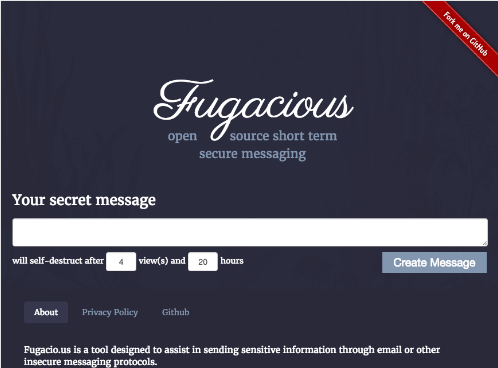
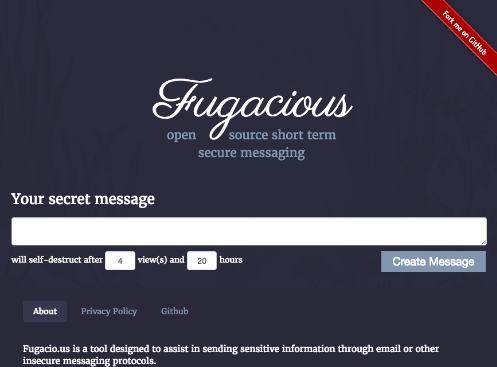
Fixes button scroll and backgrounds

diff --git a/index.html b/index.html
@@ -17,7 +17,6 @@
 		<!--[if lte IE 9]><link rel="stylesheet" href="assets/css/ie9.css" /><![endif]-->
 	</head>
 	<body>
-
 		<!-- Nav -->
 			<nav id="nav">
 				<a href="#top" class="logo">Trevor Mast</a>
@@ -30,7 +29,7 @@
 			</nav>
 
 		<!-- Home -->
-			<div class="wrapper style1 first" id="hello">
+			<div class="wrapper style1 first">
 				<div class="overlay"></div>
 				<article class="container" id="top">
 					<div class="row">
@@ -56,12 +55,12 @@
 
 		<!-- Work -->
 			<div class="wrapper style2">
-				<article id="work">
+				<article>
 					<header>
 						<h2>I'm a Full-Stack Engineer.</h2>
 						<p>From user interfaces to database configuration, I do it all.</p>
 					</header>
-					<div class="container">
+					<div class="container" id="work">
 						<div class="row">
 							<div class="4u 12u(mobile)">
 								<section class="box style1">
@@ -95,36 +94,46 @@
 		<!-- Portfolio -->
 			<!-- image size: 866 x 640 -->
 			<div class="wrapper style3">
-				<article id="portfolio">
+				<article>
 					<header>
 						<h2>Here’s what I've been working on recently.</h2>
-						<p></p>
 					</header>
-					<div class="container">
-						<div class="row">
+					<div class="container" id="portfolio">
 						<!--JEKYLL.PIZZA-->
+						<div class="row" id="jekyllPizza">
 							<div class="4u 12u(mobile)">
 								<article class="box style2">
 									<a href="http://fresh.jekyll.pizza" class="image featured"><img src="images/jekyll_pizza.jpg" alt="" /></a>
-									<h3><a href="http://fresh.jekyll.pizza">Jekyll.Pizza</a></h3>
-									<p>A Sinatra app that lets you create and host Jekyll blogs on the fly.</p>
 								</article>
 							</div>
+							<div class="8u 12u(mobile) description-right">
+								<h3><a href="http://fresh.jekyll.pizza">Jekyll.Pizza</a></h3>
+									<p>A Sinatra app that lets you create and host Jekyll blogs on the fly.</p>
+							</div>
+						</div>
 							<!--FUGACIOUS-->
+						<div class="row" id="fugacious">
+							<div class="8u 12u(mobile) description-left">
+								<h3><a href="http://fugacio.us/">Fugacious</a></h3>
+									<p>A Rails app that lets you send sensitive information securely.</p>
+							</div>
 							<div class="4u 12u(mobile)">
 								<article class="box style2">
 									<a href="http://fugacio.us/" class="image featured"><img src="images/fugacious.png" alt="" /></a>
-									<h3><a href="http://fugacio.us/">Fugacious</a></h3>
-									<p>A Rails app that lets you send sensitive information securely.</p>
+
 								</article>
 							</div>
+						</div>
 							<!-- -->
+						<div class="row" id="other">
 							<div class="4u 12u(mobile)">
 								<article class="box style2">
 									<a href="#" class="image featured"><img src="images/pic03.jpg" alt="" /></a>
-									<h3><a href="#">Lorem ipsum</a></h3>
-									<p>Ornare nulla proin odio consequat.</p>
 								</article>
+							</div>
+							<div class="8u 12u(mobile) description-right">
+								<h3><a href="#">Lorem ipsum</a></h3>
+								<p>Ornare nulla proin odio consequat.</p>
 							</div>
 						</div>
 					</div>
@@ -169,6 +178,7 @@
 		<!-- Scripts -->
 			<script src="assets/js/jquery.min.js"></script>
 			<script src="assets/js/jquery.scrolly.min.js"></script>
+			<script src="assets/js/jquery.scrollex.min.js"></script>
 			<script src="assets/js/skel.min.js"></script>
 			<script src="assets/js/skel-viewport.min.js"></script>
 			<script src="assets/js/util.js"></script>
@@ -176,7 +186,8 @@
 			<script src="assets/js/main.js"></script>
 			<script src="assets/js/header.js"></script>
 			<script src="assets/js/nav.js"></script>
-			<script src="assets/js/lightsout.js"></script>
+			<script src="assets/js/portfolio_scroll.js"></script>
+			<!-- <script src="assets/js/lightsout.js"></script> -->
 
 	</body>
 </html>

diff --git a/assets/css/main.css b/assets/css/main.css
@@ -64,18 +64,13 @@
 		left: 0;
 		width: 100%;
 		height:100%;
-		background-color: black;
+		background: white;
 		opacity: 0;
 	}
 
 	.container {
 		margin-left: auto;
 		margin-right: auto;
-	}
-
-	#hello {
-		background-image: url("../../images/bg.jpg");
-		position: relative;
 	}
 
 	#intro {
@@ -202,6 +197,8 @@
 /* Grid */
 
 	.row {
+		position: relative;
+		width: 100%;
 		border-bottom: solid 1px transparent;
 		-moz-box-sizing: border-box;
 		-webkit-box-sizing: border-box;
@@ -1327,6 +1324,14 @@
 		margin-bottom: 0;
 	}
 
+	div .description-right {
+		text-align: left;
+	}
+
+	div .description-left {
+		text-align: right;
+	}
+
 /* Image */
 
 	.image {
@@ -1348,6 +1353,10 @@
 			display: block;
 			width: 100%;
 			margin: 0 0 2em 0;
+		}
+
+		.image.featured img {
+			border-radius: 15px;
 		}
 
 		.image.left {
@@ -1487,7 +1496,7 @@
 					transition: background-color .2s ease-in-out;
 					background-color: #444;
 					border-radius: 6px;
-					box-shadow: inset 0px 0px 0px 1px #282828, inset 0px 2px 1px 0px rgba(255, 255, 255, 0.1);
+					/*box-shadow: inset 0px 0px 0px 1px #282828, inset 0px 2px 1px 0px rgba(255, 255, 255, 0.1);*/
 					color: #2E2E2E !important;
 					display: block;
 					font-size: 26px;
@@ -1593,8 +1602,8 @@
 /* Box */
 
 	.box {
-		background: #fff;
-		box-shadow: inset 0px 0px 0px 1px rgba(0, 0, 0, 0.15), 0px 2px 3px 0px rgba(0, 0, 0, 0.1);
+		background: transparent;
+		/*box-shadow: inset 0px 0px 0px 1px rgba(0, 0, 0, 0.15), 0px 2px 3px 0px rgba(0, 0, 0, 0.1);*/
 		text-align: center;
 	}
 
@@ -1646,32 +1655,79 @@
 /* Wrappers */
 
 	.wrapper {
-		box-shadow: inset 0px 1px 0px 0px rgba(0, 0, 0, 0.05), inset 0px 2px 3px 0px rgba(0, 0, 0, 0.1);
+		/*box-shadow: inset 0px 1px 0px 0px rgba(0, 0, 0, 0.05), inset 0px 2px 3px 0px rgba(0, 0, 0, 0.1);*/
 	}
 
 		.wrapper.first {
+			position: relative;
 			box-shadow: none;
 		}
 
 		.wrapper.style1 {
 			background-image: none;
-			background-color: #fff;
+			background-color: transparent;
 		}
 
 		.wrapper.style2 {
-			background-color: #fafafa;
-			text-shadow: 1px 1px 0px #fff;
+			position: relative;
+			background-color: transparent;
+		}
+
+		.wrapper.style2 p, .wrapper.style2 h2, .wrapper.style2 h3{
+			color: black;
+		}
+
+	/*	.wrapper.style2 .overlay {
+			opacity: 0;
+			z-index: -2;
+		}*/
+
+		div.overlay {
+		  content: "";
+			background: url("../../images/bg.jpg");
+			background-size: 100% 100%;
+			background-attachment: fixed;
+			opacity: 1;
+		  top: 0;
+		  left: 0;
+		  bottom: 0;
+		  right: 0;
+		  position: absolute;
+		  z-index: -1;
+		}
+		div.style2::after {
+		  content: "";
+			background: url("../../images/bg.jpg");
+			background-size: 100% 100%;
+			background-attachment: fixed;
+		  opacity: 0.125;
+		  top: 0;
+		  left: 0;
+		  bottom: 0;
+		  right: 0;
+		  position: absolute;
+		  z-index: -1;
 		}
 
 		.wrapper.style3 {
-			background-color: #f4f4f4;
-			text-shadow: 1px 1px 0px #fff;
+			background-color: black;
+		}
+
+		.wrapper.style3 h2{
+			margin-bottom: 2em;
+		}
+
+		.wrapper.style3 p, .wrapper.style3 h1, .wrapper.style3 h2, .wrapper.style3 h3 {
+			color: white;
+		}
+
+		.wrapper.style3 a {
+			color: #43bff0;
 		}
 
 		.wrapper.style4 {
 			background-color: #303030;
 			color: #999;
-			text-shadow: -1px -1px 0px #181818;
 		}
 
 			.wrapper.style4 h1, .wrapper.style4 h2, .wrapper.style4 h3, .wrapper.style4 h4, .wrapper.style4 h5, .wrapper.style4 h6 {
@@ -1851,7 +1907,7 @@
 				}
 
 			footer {
-				margin: 3em 0 0 0;
+				margin: 0 0 0 0;
 			}
 
 				footer > p {

diff --git a/assets/js/jquery.scrollex.min.js b/assets/js/jquery.scrollex.min.js
@@ -1,0 +1,2 @@
+/* jquery.scrollex v0.2.1 | (c) n33 | n33.co @n33co | MIT */
+!function(t){function e(t,e,n){return"string"==typeof t&&("%"==t.slice(-1)?t=parseInt(t.substring(0,t.length-1))/100*e:"vh"==t.slice(-2)?t=parseInt(t.substring(0,t.length-2))/100*n:"px"==t.slice(-2)&&(t=parseInt(t.substring(0,t.length-2)))),t}var n=t(window),i=1,o={};n.on("scroll",function(){var e=n.scrollTop();t.map(o,function(t){window.clearTimeout(t.timeoutId),t.timeoutId=window.setTimeout(function(){t.handler(e)},t.options.delay)})}).on("load",function(){n.trigger("scroll")}),jQuery.fn.scrollex=function(l){var s=t(this);if(0==this.length)return s;if(this.length>1){for(var r=0;r<this.length;r++)t(this[r]).scrollex(l);return s}if(s.data("_scrollexId"))return s;var a,u,h,c,p;switch(a=i++,u=jQuery.extend({top:0,bottom:0,delay:0,mode:"default",enter:null,leave:null,initialize:null,terminate:null,scroll:null},l),u.mode){case"top":h=function(t,e,n,i,o){return t>=i&&o>=t};break;case"bottom":h=function(t,e,n,i,o){return n>=i&&o>=n};break;case"middle":h=function(t,e,n,i,o){return e>=i&&o>=e};break;case"top-only":h=function(t,e,n,i,o){return i>=t&&n>=i};break;case"bottom-only":h=function(t,e,n,i,o){return n>=o&&o>=t};break;default:case"default":h=function(t,e,n,i,o){return n>=i&&o>=t}}return c=function(t){var i,o,l,s,r,a,u=this.state,h=!1,c=this.$element.offset();i=n.height(),o=t+i/2,l=t+i,s=this.$element.outerHeight(),r=c.top+e(this.options.top,s,i),a=c.top+s-e(this.options.bottom,s,i),h=this.test(t,o,l,r,a),h!=u&&(this.state=h,h?this.options.enter&&this.options.enter.apply(this.element):this.options.leave&&this.options.leave.apply(this.element)),this.options.scroll&&this.options.scroll.apply(this.element,[(o-r)/(a-r)])},p={id:a,options:u,test:h,handler:c,state:null,element:this,$element:s,timeoutId:null},o[a]=p,s.data("_scrollexId",p.id),p.options.initialize&&p.options.initialize.apply(this),s},jQuery.fn.unscrollex=function(){var e=t(this);if(0==this.length)return e;if(this.length>1){for(var n=0;n<this.length;n++)t(this[n]).unscrollex();return e}var i,l;return(i=e.data("_scrollexId"))?(l=o[i],window.clearTimeout(l.timeoutId),delete o[i],e.removeData("_scrollexId"),l.options.terminate&&l.options.terminate.apply(this),e):e}}(jQuery);

diff --git a/assets/js/lightsout.js b/assets/js/lightsout.js
@@ -1,27 +1,43 @@
-var previousScroll = 0
 
-$(window).scroll(function() {
-  var currentScroll = $(this).scrollTop();
-  var opacityAmount = 0.0125
+var overlay = $('div.overlay');
 
-  // if scrolling within first div
-  if ($(window).scrollTop() < (topofDiv + height)){
-    // downscroll
-    if (currentScroll > previousScroll){
-      if ($('.overlay').css('opacity') <= 0.75){
-        $('.overlay').css({ opacity : "+=" + opacityAmount + 'px'});
-      }
-    }
-    // upscroll
-    else {
-      if ($(window).scrollTop() <= topofDiv){
-        $('.overlay').css({opacity: 0})
+
+var previousScroll = 0;
+fadingIn = false;
+fadingOut = false;
+
+$(document).ready(function(){
+
+  $(window).scroll(function() {
+    var currentScroll = $(this).scrollTop();
+    var fadeDuration = 500
+
+    // if scrolling within first div
+    if ($(window).scrollTop() < (topofDiv + height)){
+      // downscroll
+      if (currentScroll > previousScroll){
+        if ($(window).scrollTop() > (topofDiv + (height/2))){
+          if (!fadingIn){
+            overlay.fadeTo(fadeDuration, 0.125, function(){
+              fadingIn = false;
+            });
+            fadingIn = true;
+          }
         }
-
-      if ($('.overlay').css('opacity') > 0 ){
-        $('.overlay').css({ opacity : "-=" + opacityAmount + 'px'});
+      }
+      // upscroll
+      else {
+        if(!fadingOut){
+          overlay.fadeTo(fadeDuration, 1, function(){
+            fadingOut = false;
+          });
+          fadingOut = true;
+        }
       }
     }
-  previousScroll = currentScroll
-  }
+    previousScroll = currentScroll;
+  });
 });
+
+
+

diff --git a/assets/js/nav.js b/assets/js/nav.js
@@ -3,7 +3,7 @@ var topofDiv = $('.wrapper.style1.first').offset().top; //gets offset of header
 var height = $('.wrapper.style1.first').outerHeight(); //gets height of header
 
 $(window).scroll(function(){
-    if($(window).scrollTop() > (topofDiv + height)){
+    if($(window).scrollTop() > (topofDiv + height - 60)){
        $(".logo").addClass('active');
        addActiveNav();
     }

diff --git a/assets/js/main.js b/assets/js/main.js
@@ -50,7 +50,7 @@
 		// Scrolly.
 			$window.load(function() {
 
-				var x = parseInt($('.wrapper').first().css('padding-top')) - 15;
+				var x = parseInt($('.wrapper').css('padding-top')) - 15;
 
 				$('#nav a, .scrolly').scrolly({
 					speed: 1000,

diff --git a/assets/js/portfolio_scroll.js b/assets/js/portfolio_scroll.js
@@ -1,0 +1,9 @@
+$('.row#jekyllPizza').scrollex({
+  enter: function(){
+    $(this+"")
+  },
+  leave: function(){
+
+  }
+
+});
